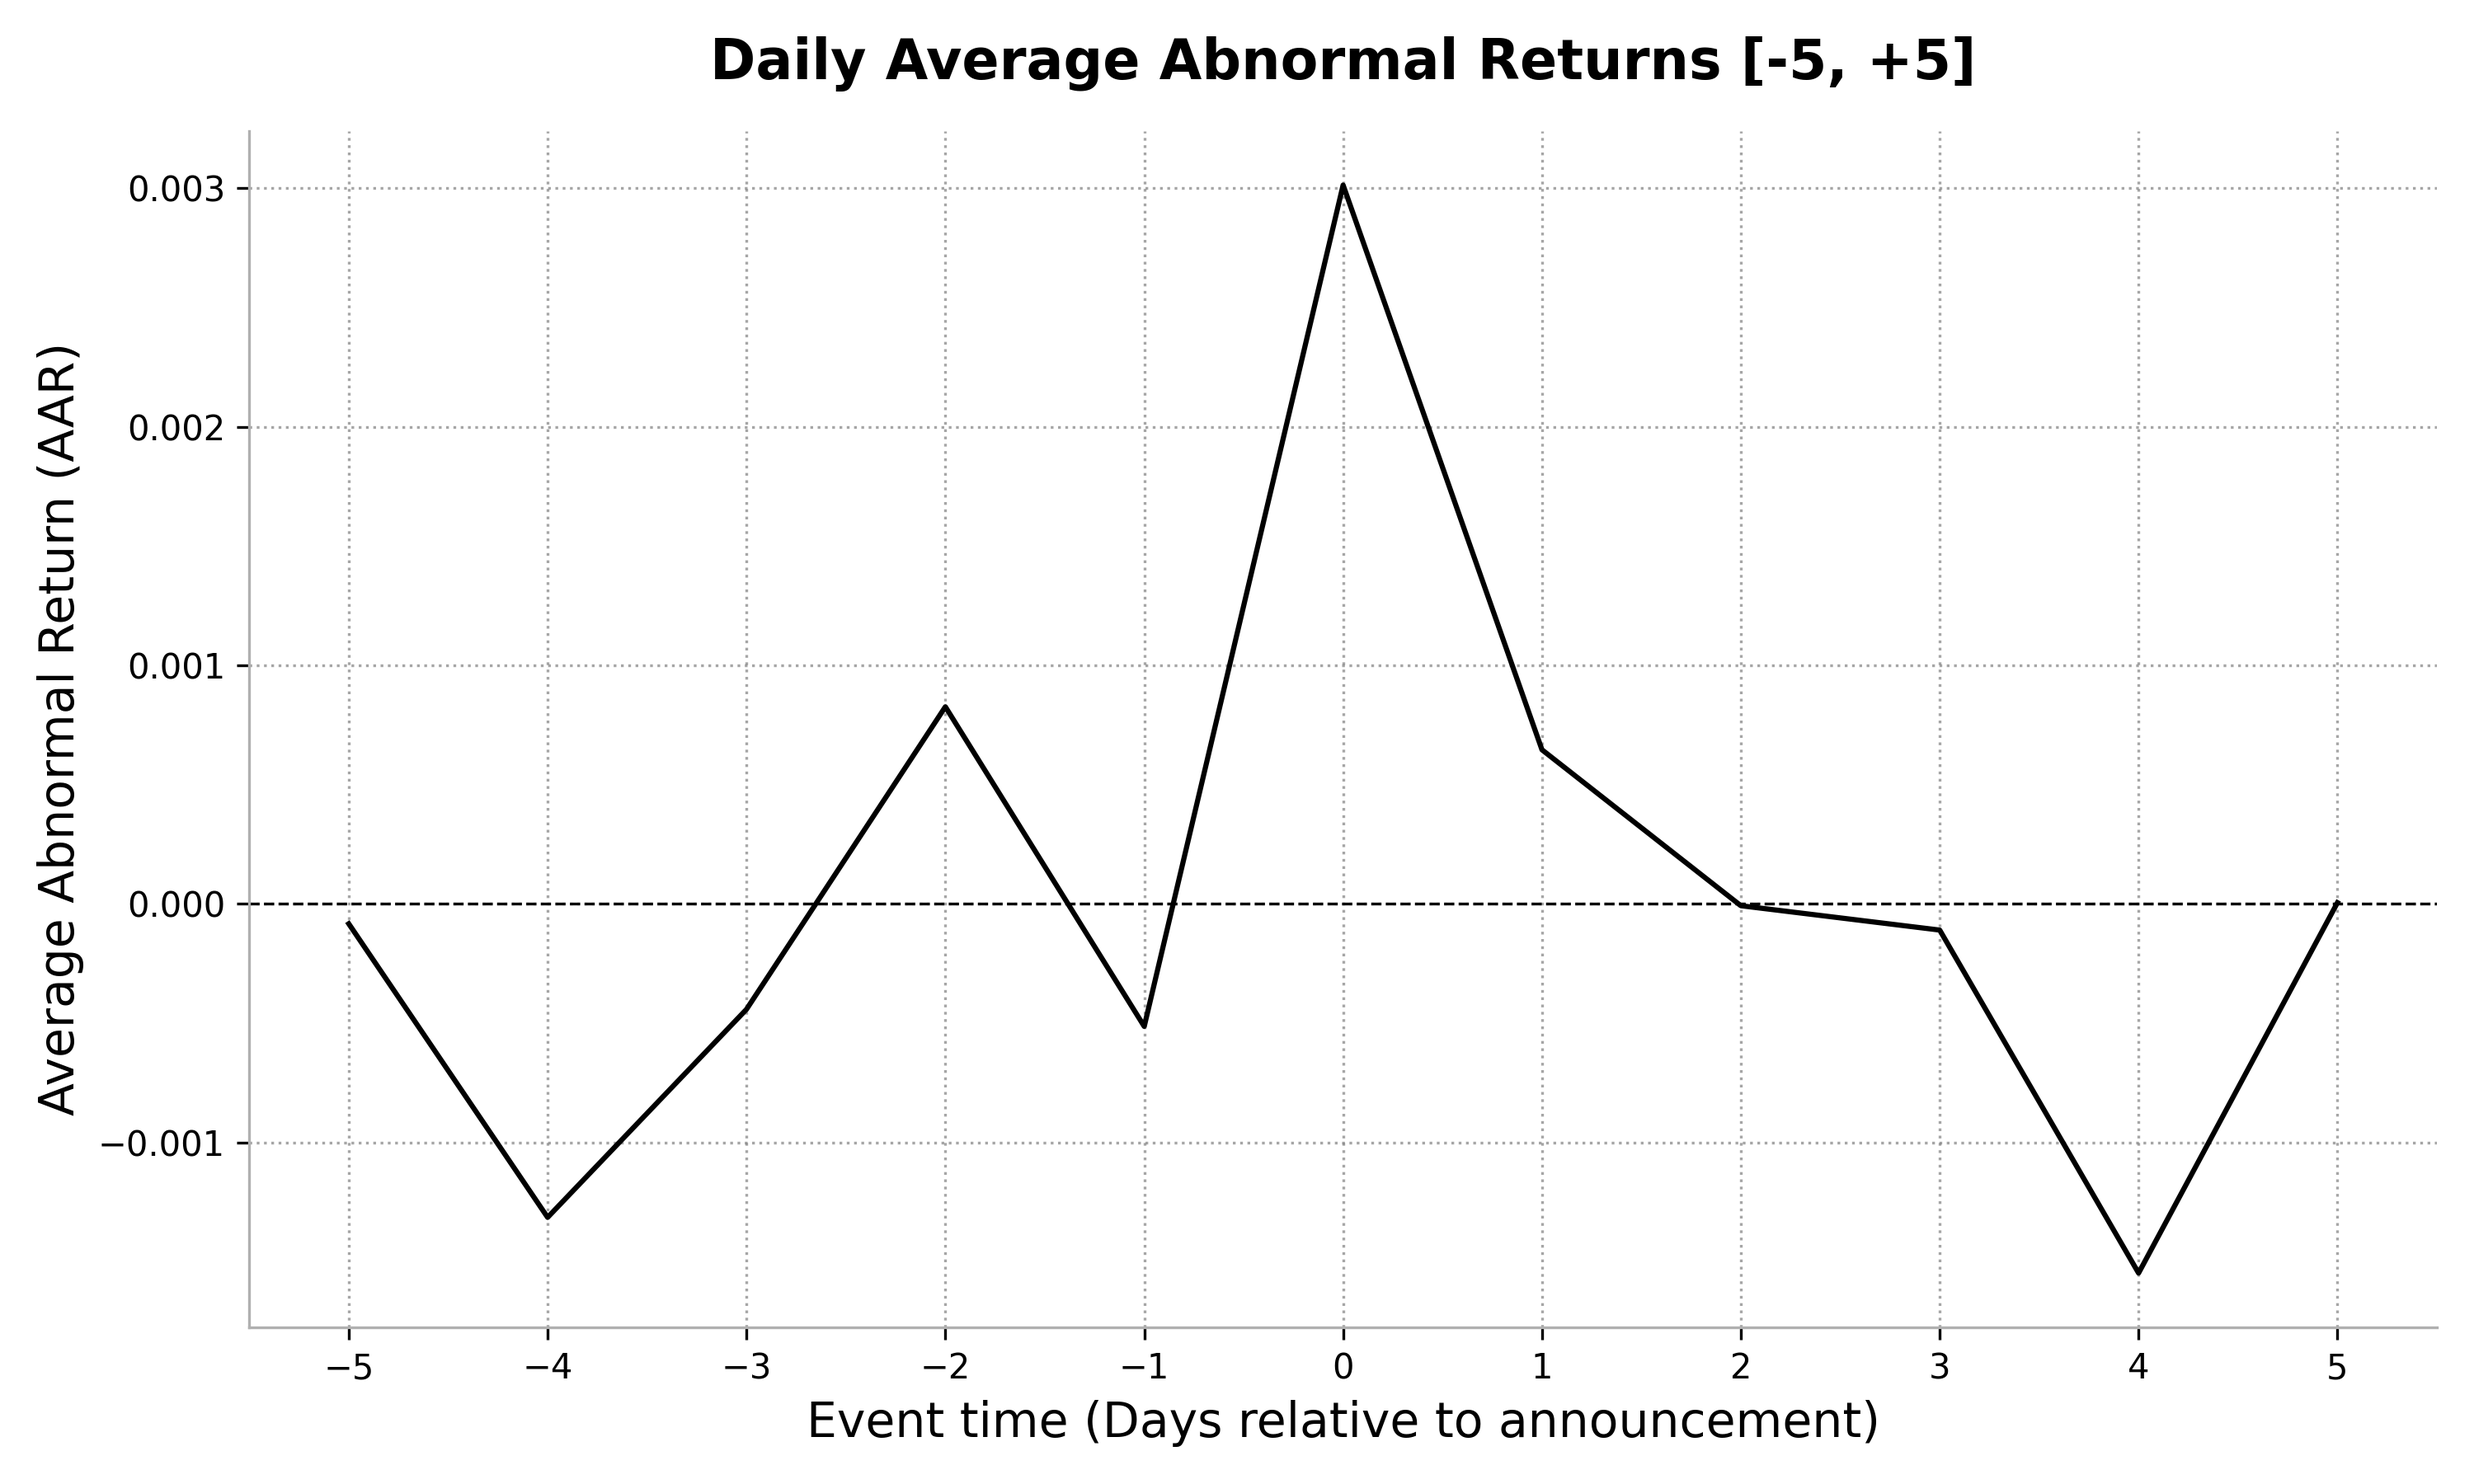
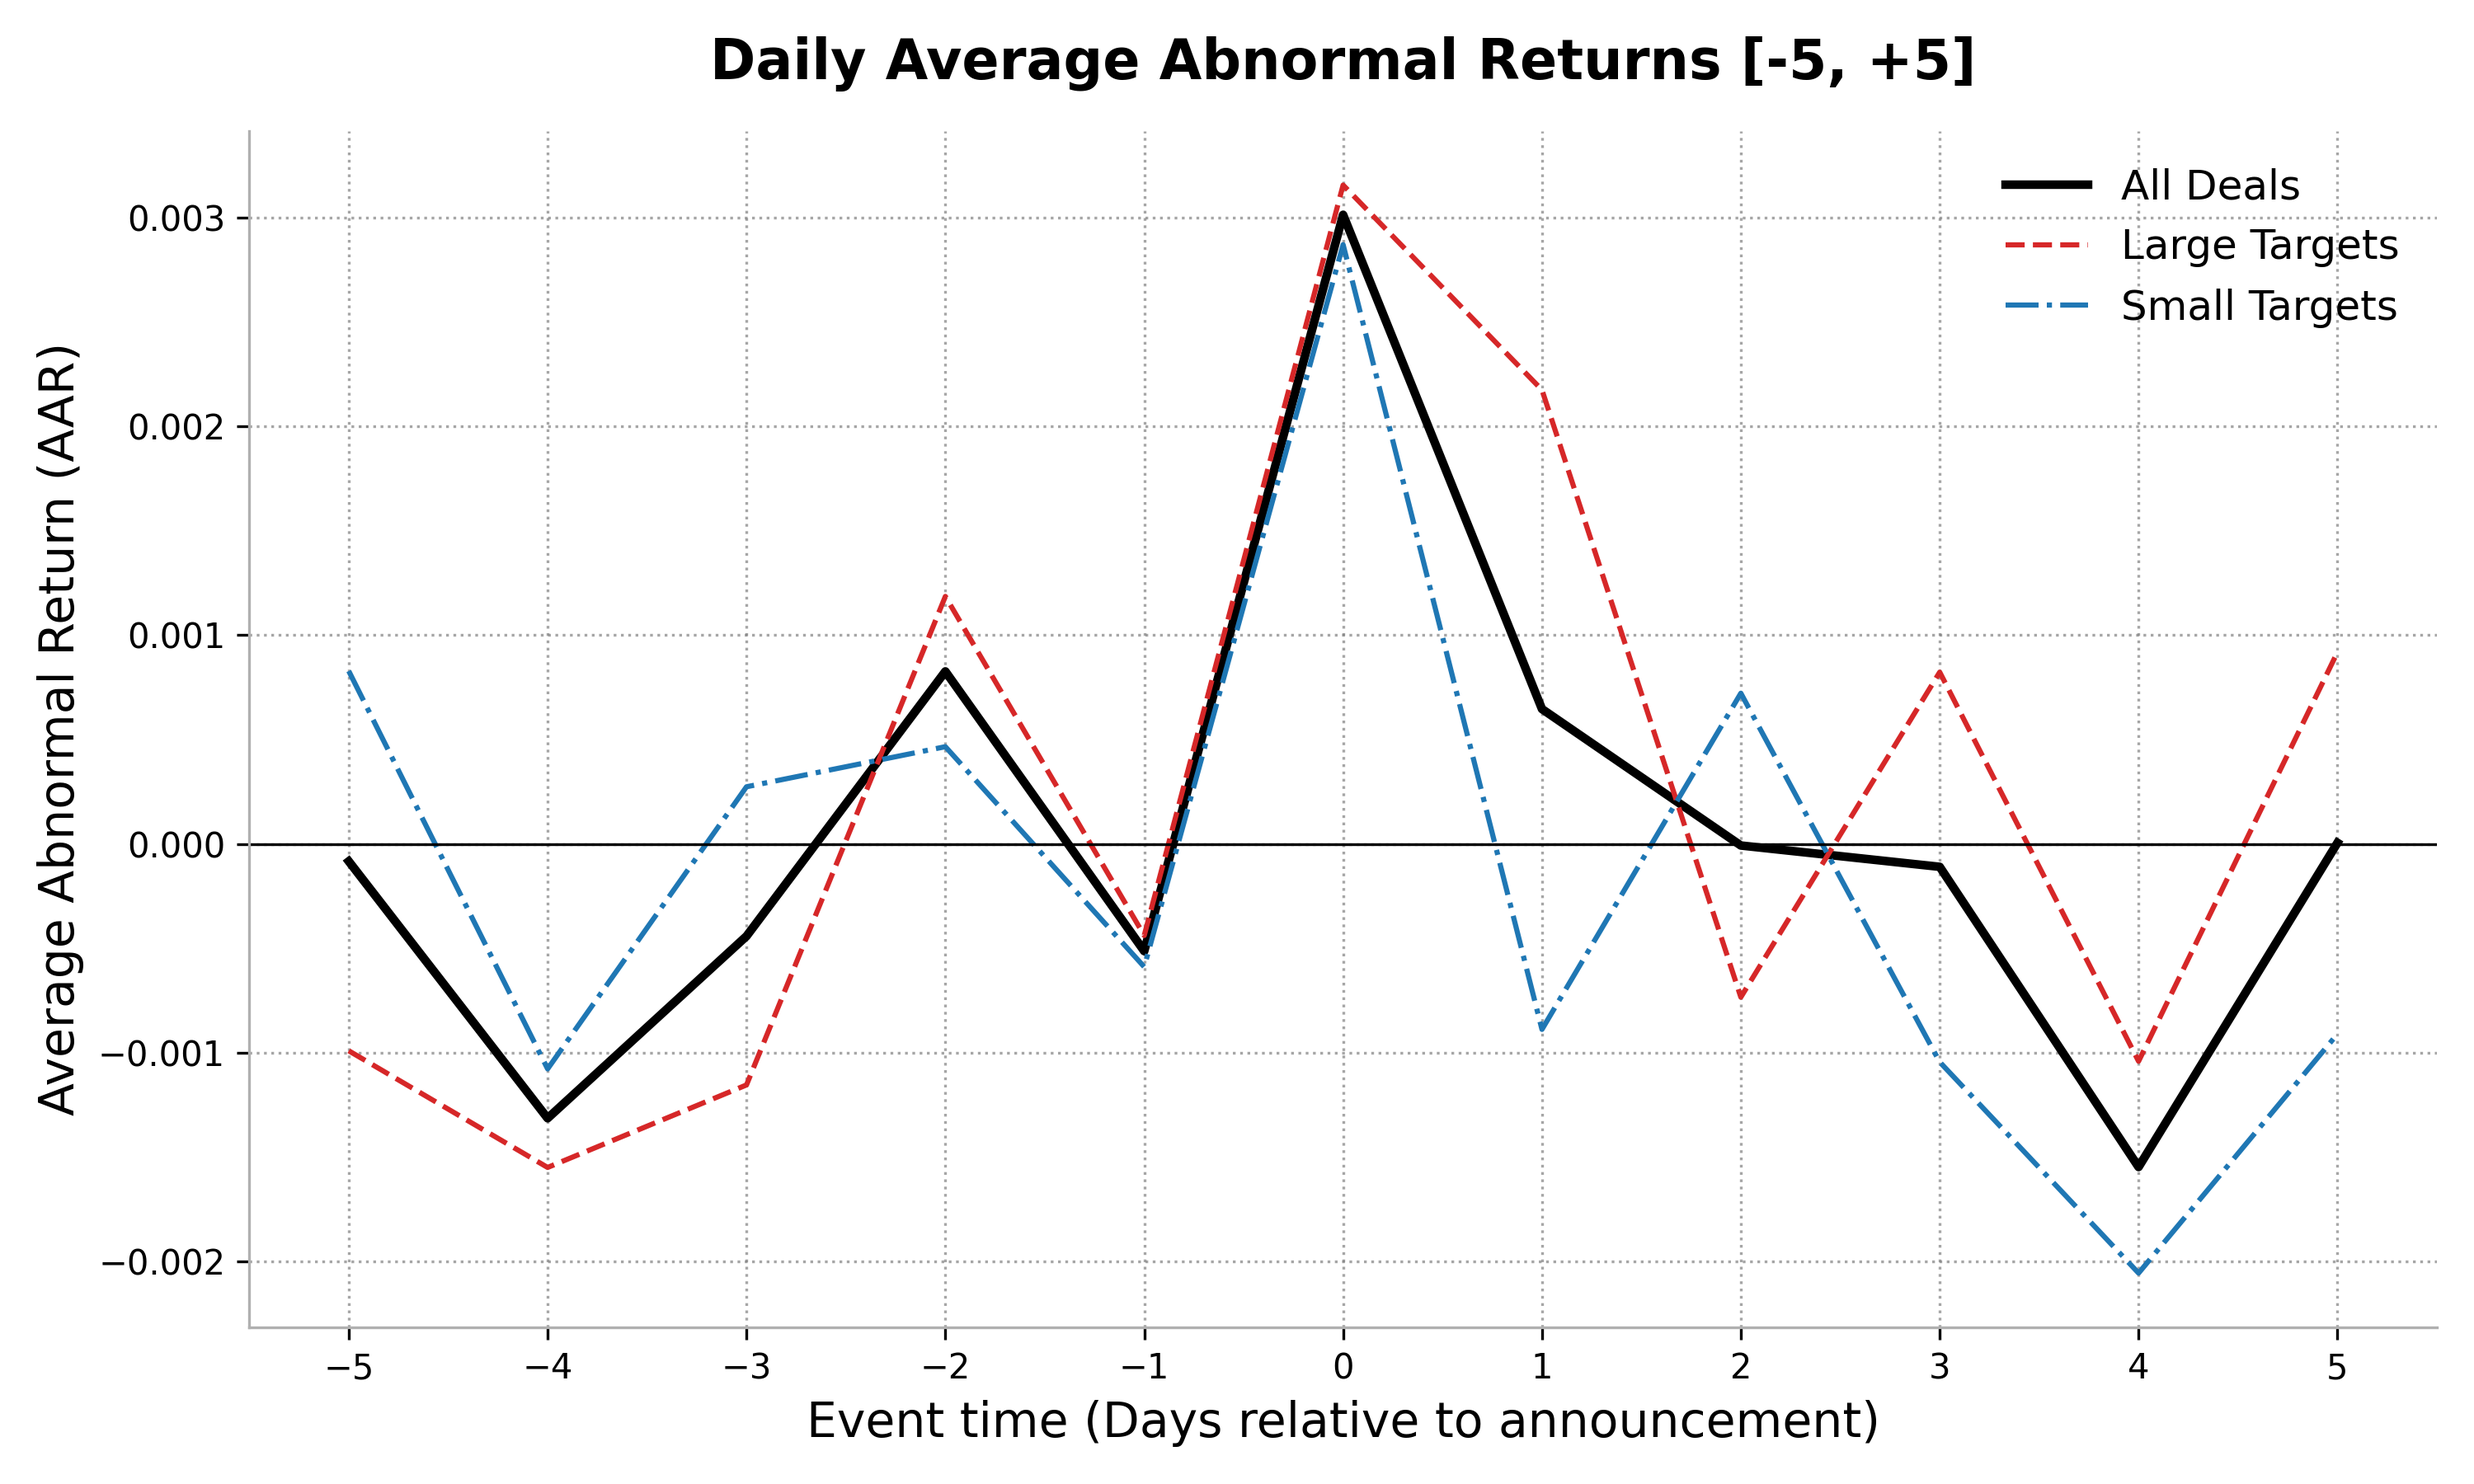
script updates

diff --git a/Visualisation/abret55_small_large.py b/Visualisation/abret55_small_large.py
@@ -1,0 +1,118 @@
+"""
+SCRIPT NAME: abret55_small_large.py.py
+
+DESCRIPTION: 
+This script processes AAR across a [-5, +5] event window to calculate the Average Abnormal Return (AAR) for each relative trading day.
+It categorizes deals into Small and Large targets based on the median relative size from the master dataset.
+It then generates a line graph to visualize the overall AAR data alongside the subsamples around the announcement date.
+
+INPUTS:
+- abret55.csv
+- Master_Regression_Dataset.csv
+
+OUTPUTS:
+- AAR55_Event_Study_Plot.png
+"""
+
+import pandas as pd
+import matplotlib.pyplot as plt
+import numpy as np
+
+#Load Master Dataset
+master_df = pd.read_csv('Master_Regression_Dataset.csv')
+
+# alculate the median relative size
+median_size = master_df['Relative_Size'].median()
+
+#Categorize into 'Large' (>= median) and 'Small' (< median)
+master_df['Target_Size'] = np.where(master_df['Relative_Size'] >= median_size, 'Large', 'Small')
+
+#Create a mapping dataframe using both Ticker and Event Date (uniquely identifies deals)
+size_mapping = master_df[['Acquiror ticker symbol', 'evtdate', 'Target_Size']].copy()
+size_mapping = size_mapping.rename(columns={'Acquiror ticker symbol': 'TICKER'})
+size_mapping['TICKER'] = size_mapping['TICKER'].astype(str).str.upper()
+
+#Ensure evtdate is a standardized datetime object so it merges cleanly
+size_mapping['evtdate'] = pd.to_datetime(size_mapping['evtdate'])
+
+#Drop absolute duplicates (in case two identical deals exist on the same day)
+size_mapping = size_mapping.drop_duplicates(subset=['TICKER', 'evtdate'])
+
+#Load and Clean Event Study Return Data
+df = pd.read_csv('abret55.csv')
+
+#Standardize ticker column name to uppercase (WRDS outputs vary)
+if 'ticker' in df.columns:
+    df = df.rename(columns={'ticker': 'TICKER'})
+df['TICKER'] = df['TICKER'].astype(str).str.upper()
+
+#Ensure evtdate column matches
+if 'event_date' in df.columns:
+    df = df.rename(columns={'event_date': 'evtdate'})
+    
+#Standardize WRDS date format to match the master dataset
+df['evtdate'] = pd.to_datetime(df['evtdate'].astype(str))
+
+
+#By merging on both Ticker and Date, we guarantee the daily returns map perfectly to the specific deal that occurred on that day.
+df = df.merge(size_mapping, on=['TICKER', 'evtdate'], how='inner')
+
+#Force "evttime" and "abret" to be numbers. Any other text becomes NaN.
+df['evttime'] = pd.to_numeric(df['evttime'], errors='coerce')
+df['abret'] = pd.to_numeric(df['abret'], errors='coerce')
+
+#Drop NaN rows so the math is correct
+df = df.dropna(subset=['evttime', 'abret'])
+
+#Convert evttime to integer so our X-axis plots neatly
+df['evttime'] = df['evttime'].astype(int)
+
+#Overall AAR
+plot_data_all = df.groupby('evttime')['abret'].mean().reset_index()
+
+#Subsample AARs based on Target Size
+plot_data_small = df[df['Target_Size'] == 'Small'].groupby('evttime')['abret'].mean().reset_index()
+plot_data_large = df[df['Target_Size'] == 'Large'].groupby('evttime')['abret'].mean().reset_index()
+
+#Generate Plot
+plt.figure(figsize=(10, 6))
+
+# Plot the three lines
+plt.plot(plot_data_all['evttime'], plot_data_all['abret'], color='black', linewidth=2.5, label='All Deals')
+plt.plot(plot_data_large['evttime'], plot_data_large['abret'], color='#d62728', linewidth=1.5, linestyle='--', label='Large Targets')
+plt.plot(plot_data_small['evttime'], plot_data_small['abret'], color='#1f77b4', linewidth=1.5, linestyle='-.', label='Small Targets')
+
+#Format the X-axis to explicitly show every single day from -5 to +5
+min_day = plot_data_all['evttime'].min()
+max_day = plot_data_all['evttime'].max()
+plt.xticks(np.arange(min_day, max_day + 1, 1))
+
+#Add light gray dotted grid lines
+plt.grid(True, linestyle=':', alpha=0.7, color='gray')
+
+#Remove the top and right borders for a cleaner look
+ax = plt.gca()
+ax.spines['top'].set_visible(False)
+ax.spines['right'].set_visible(False)
+
+#Color the left and bottom spines a light gray
+ax.spines['left'].set_color('#b0b0b0')
+ax.spines['bottom'].set_color('#b0b0b0')
+
+#Labeling
+plt.xlabel('Event time (Days relative to announcement)', fontsize=14)
+plt.ylabel('Average Abnormal Return (AAR)', fontsize=14) 
+plt.title('Daily Average Abnormal Returns [-5, +5]', fontsize=16, fontweight='bold', pad=15)
+
+#Add a horizontal line at Y=0 to easily see positive vs. negative returns
+plt.axhline(0, color='black', linewidth=0.8, linestyle='-')
+
+#Add legend to distinguish the lines
+plt.legend(frameon=False, fontsize=12, loc='best')
+
+#Save as an image
+plt.tight_layout()
+plt.savefig('AAR55_Event_Study_Plot.png', dpi=300)
+
+#Display the plot
+plt.show()

diff --git a/Main_Regression/update_descriptive_statistics_explanatory_variables.py b/Main_Regression/update_descriptive_statistics_explanatory_variables.py
@@ -1,0 +1,78 @@
+"""
+SCRIPT NAME: update_descriptive_statistics_explanatory_variables.py
+
+DESCRIPTION:
+Separates the master dataset into small and large samples based on median relative deal size. 
+Calculates relevant descriptive and distributional statistics for all explanatory variables.
+
+INPUTS:
+Master_Regression_Dataset.csv
+
+OUTPUTS:
+Explanatory_Descriptives.csv
+"""
+import pandas as pd
+from scipy import stats
+
+#Load final regression dataset
+df = pd.read_csv('Master_Regression_Dataset.csv')
+
+#Define explanatory variables
+exp_vars = ['Relative_Size', 'Percent_Stock', 'Public_Target', 'Same_Industry', 'Log_Acq_Size']
+
+#Drop any missing values to ensure a consistent sample
+df = df.dropna(subset=['car'] + exp_vars)
+
+#Determine the Median Cutoff for Relative Size
+median_size = df['Relative_Size'].median()
+print(f"Median Relative Size Cutoff: {median_size:.4f}")
+
+#Create the two sub-samples
+small_df = df[df['Relative_Size'] <= median_size]
+large_df = df[df['Relative_Size'] > median_size]
+
+#Function for universally applicable statistics
+def get_applicable_stats(series):
+    series = series.dropna()
+    n = len(series)
+    
+    if n == 0:
+        return {}
+
+    #Calculate statistics
+    mean = series.mean()
+    std = series.std(ddof=1)
+    skewness = stats.skew(series)
+    kurtosis = stats.kurtosis(series, fisher=False)
+    jb_stat, jb_pval = stats.jarque_bera(series)
+    
+    #Format the output dict
+    return {
+        "Number of Events": n,
+        "Sample Mean": f"{mean:.6f}",
+        "Sample Standard deviation": f"{std:.6f}",
+        "Sample skewness": f"{skewness:.4f}",
+        "Sample kurtosis": f"{kurtosis:.4f}",
+        "JB test statistic": f"{jb_stat:.4f}",
+        "JB p-value": f"{jb_pval:.4e}"
+    }
+
+# Compile results for all variables
+all_results = {}
+
+for var in exp_vars:
+    # Create a DataFrame for each variable comparing the three groups
+    var_results = {
+        "All Deals": get_applicable_stats(df[var]),
+        "Small Targets": get_applicable_stats(small_df[var]),
+        "Large Targets": get_applicable_stats(large_df[var])
+    }
+    all_results[var] = pd.DataFrame(var_results)
+
+# Concatenate all the variable DataFrames into one large summary table
+final_df = pd.concat(all_results.values(), axis=1, keys=all_results.keys())
+
+# Save to a CSV
+final_df.to_csv('Explanatory_Descriptives.csv')
+
+print("Success: Generated Explanatory_Descriptives.csv")

diff --git a/Main_Regression/update_descriptive_statistics.py b/Main_Regression/update_descriptive_statistics.py
@@ -2,7 +2,10 @@
 SCRIPT NAME: update_descriptive_statistics.py
 
 DESCRIPTION:
-Separates the master dataset into small and large samples based on median relative deal size. Then, calculates descriptive statistics for each group.
+Separates the master dataset into small and large samples based on median relative deal size. 
+Calculates one-sample descriptive statistics for each group, and two-sample comparative tests 
+between the small and large targets.
+
 INPUTS:
 Master_Regression_Dataset.csv
 
@@ -50,7 +53,7 @@ def get_comprehensive_stats(data, column='car'):
     positive_count = (series > 0).sum()
     sign_pval = stats.binomtest(positive_count, n, p=0.5).pvalue
     
-    # Rank Test
+    #Rank Test
     #If there are exactly zero values, Wilcoxon drops them, so we handle safely.
     non_zero_series = series[series != 0]
     if len(non_zero_series) > 0:
@@ -82,6 +85,20 @@ results = {
 
 #Convert to DataFrame
 results_df = pd.DataFrame(results)
+
+#Two sample comparative tests
+small_car = small_df['car'].dropna()
+large_car = large_df['car'].dropna()
+
+#Welch's Two-Sample T-Test
+_, t_pval_2samp = stats.ttest_ind(small_car, large_car, equal_var=False)
+
+#Mann-Whitney U Test
+_, u_pval = stats.mannwhitneyu(small_car, large_car, alternative='two-sided')
+
+#Add these results as new rows at the bottom of the DataFrame
+results_df.loc["Welch's 2-Sample T-Test (p-value)"] = [f"{t_pval_2samp:.4e}", "-", "-"]
+results_df.loc["Mann-Whitney U Test (p-value)"] = [f"{u_pval:.4e}", "-", "-"]
 
 #Save to a CSV
 results_df.to_csv('Target_Size_Descriptives.csv')

diff --git a/Main_Regression/breusch_pagan_test.py b/Main_Regression/breusch_pagan_test.py
@@ -1,0 +1,32 @@
+"""
+DESCRIPTION:
+This script runs the Breusch-Pagan test for heteroskedasticity on the linear regression for the main event window.
+
+INPUTS:
+Master_Regression_Dataset.csv
+
+OUTPUTS:
+Lagrange Multiplier (LM) p-value
+"""
+
+import pandas as pd
+import statsmodels.formula.api as smf
+import statsmodels.stats.api as sms
+
+#Load the Master Dataset
+df = pd.read_csv('Master_Regression_Dataset.csv')
+
+#Define the variables needed for the regression
+vars_to_use = ['car', 'Relative_Size', 'Percent_Stock', 'Public_Target', 'Same_Industry', 'Log_Acq_Size']
+
+#Clean any remaining missing values to ensure matrix dimensions match perfectly
+df_clean = df.dropna(subset=vars_to_use)
+
+#Run the Standard OLS Regression to get the residuals 
+model = smf.ols('car ~ Relative_Size + Percent_Stock + Public_Target + Same_Industry + Log_Acq_Size', data=df_clean).fit()
+
+#Perform the Breusch-Pagan test
+bp_test = sms.het_breuschpagan(model.resid, model.model.exog)
+
+#Print only the LM p-value
+print(bp_test[1])

diff --git a/README.md b/README.md
@@ -23,9 +23,11 @@ Research_Pipeline
 │   └── wrds_ticker_for_CAR_extraction.py
 │
 ├── Main_Regression
+│   ├── breusch_pagan_test.py
 │   ├── Master_Regression_Dataset.csv
 │   ├── Target_Size_Descriptives.csv
 │   ├── regression.py
+│   ├── update_descriptive_statistics_explanatory_variables.py
 │   └── update_descriptive_statistics.py
 │
 ├── Modified Event Window Regression [-20, +5]
@@ -53,7 +55,7 @@ Research_Pipeline
     ├── Master_Regression_Dataset.csv
     ├── WRDS_Robustness_Input.txt
     ├── abret55.csv
-    ├── abret55graph.py
+    ├── abret55_small_large.py
     └── wrds_car_extraction.py
 ```
 
@@ -123,7 +125,10 @@ To run the analysis, execute the Python scripts in the following order within th
 
 | File | Description |
 |---|---|
+| `breusch_pagan_test.py` | Runs the Breusch-Pagan test for heteroskedasticity on the linear regression for the main event window.|
 | `regression.py` | Runs the robust linear regression for the main event window|
+| `update_descriptive_statistics_explanatory_variables.py` | Separates the master dataset into small and large samples based on median relative deal size. 
+Calculates relevant descriptive and distributional statistics for all explanatory variables. |
 | `update_descriptive_statistics.py` | Separates the master dataset into small and large samples based on median relative deal size. Then, calculates descriptive statistics for each group. |
 | `Master_Regression_Dataset.csv` | A copy of the final dataset for the regression |
 | `Target_Size_Descriptives.csv` | A table summarizing descriptive statistics of the deals, split by large or small target company.|
@@ -158,7 +163,7 @@ To run the analysis, execute the Python scripts in the following order within th
 | File | Description |
 |---|---|
 | `wrds_car_extraction.py` | Extracts unique acquirer tickers and announcement dates from the master regression dataset, reformats dates, removes duplicates, and generates a WRDS input file. |
-| `abret55graph.py` | Processes CAR across the [-5, +5] window to calculate the Average Abnormal Return (AAR) for each day, then generates a line graph to visualize the data. |
+| `abret55_small_large.py` | Processes CAR across a [-5,+5] event window. It computes Average Abnormal Returns (AAR) and plots overall and subsample results for small and large target deals |
 | `AAR55_Event_Study_Plot.png` | A line chart showing how AAR changed over the[ -5, +5] window|
 | `Master_Regression_Dataset.csv` | A copy of the main finalized dataset|
 | `WRDS_Robustness_Input.txt` | A text file used to request the daily abnormal returns for the [-5, +5] window from WRDS. |
